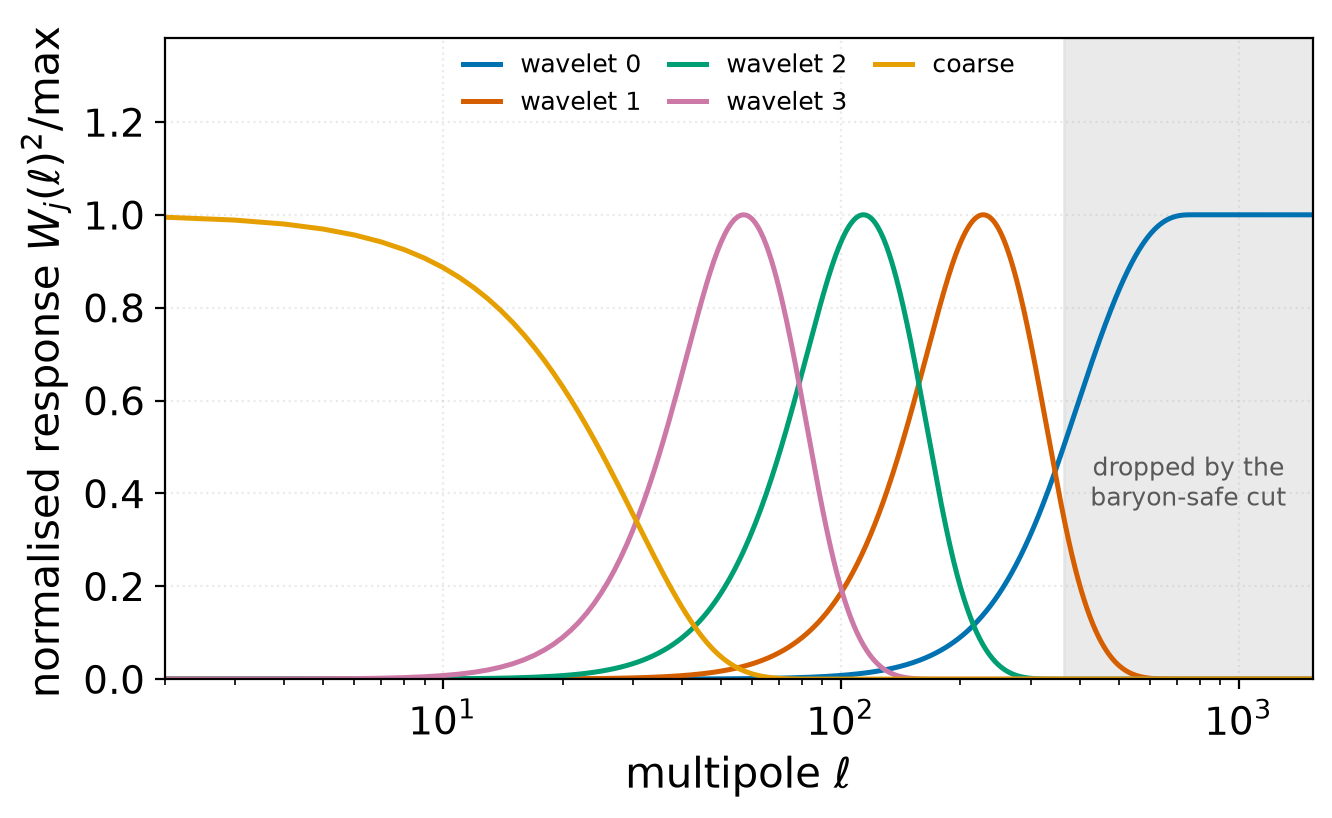
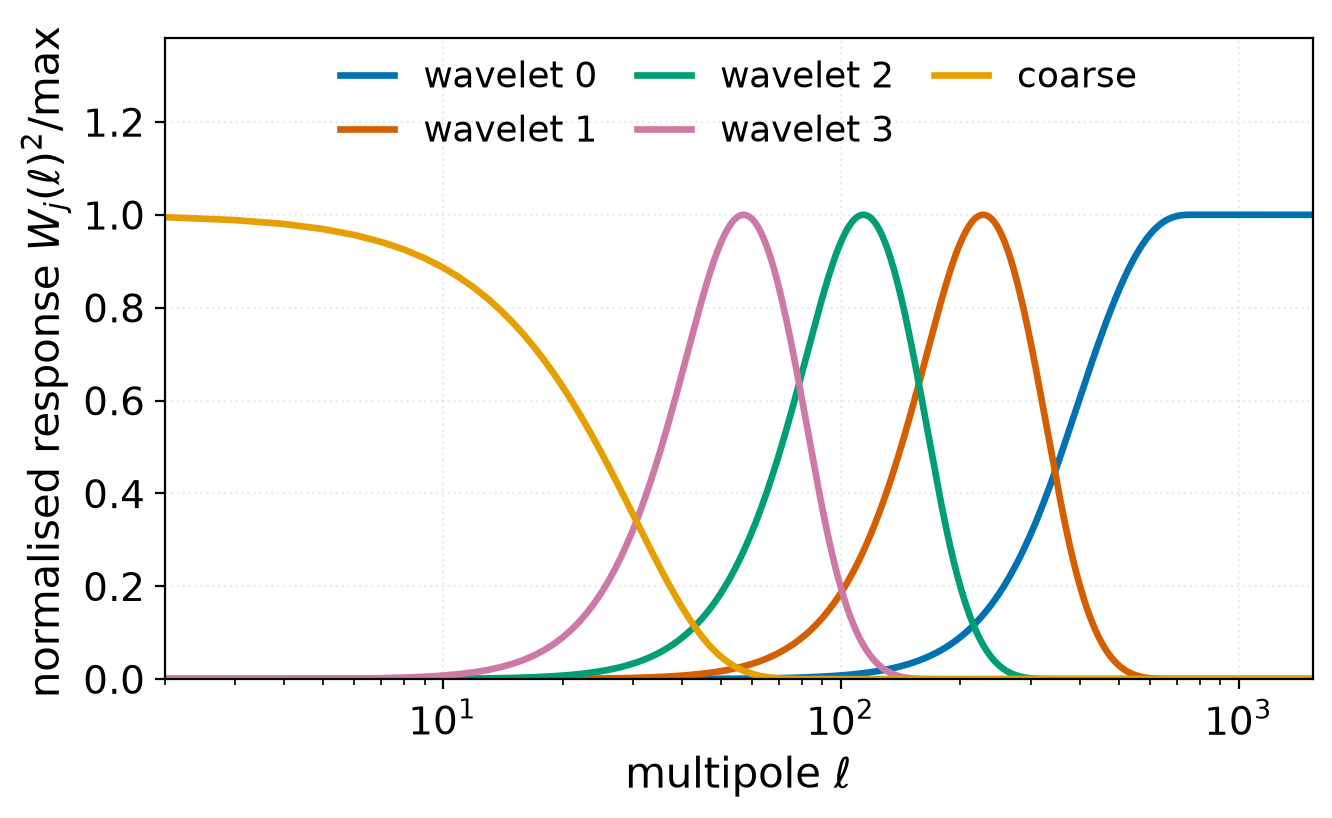
starlet_scale_ell: drop the baryon-safe-cut band, scale all type with the canvas
Removes the grey axvspan over wav0's range and its "dropped by the baryon-safe
cut" annotation. This figure reports the MEASURED scale-to-multipole mapping;
which scales an analysis then discards is an assertion about the cut, made in
the text and in the scale-cut figures. Carrying it here also pinned the figure
to one particular cut (scales234), so it would have gone stale the moment that
changed.

Also keys every text element to --width rather than only the legend and the
(now removed) annotation: the axis labels and ticks were inherited fixed from
paper_v1, so narrowing the canvas kept full-size axis type and overflowed the
axes -- which is what the docstring records as having made the narrow variant
unusable. Sizes are keyed so W=7.0 reproduces paper_v1's own values exactly
(15/14/13), leaving the default render unchanged apart from the removal, while
--width alone is now enough to retarget the figure.

Measurement untouched: values.csv is byte-identical.

Claude-Session: https://claude.ai/code/session_01SXAYVGCxtZzGWLz7XRq3UF

diff --git a/scripts/diagnostics/starlet_scale_ell.py b/scripts/diagnostics/starlet_scale_ell.py
@@ -143,9 +143,15 @@ def make_figure(W2, tbl, a):
     plt.style.use(os.path.join(REPO, "styles", "paper_v1.mplstyle"))
     fig, ax = plt.subplots(figsize=(a.width, a.width * a.aspect))
 
-    scale = min(1.0, a.width / 11.0)          # 1.0 at double column, ~0.64 at one column
-    leg_fs = max(9.0, 13.0 * scale)
-    ann_fs = max(9.0, 12.0 * scale)
+    # TYPE FOLLOWS THE CANVAS WIDTH, keyed so that the default reproduces paper_v1's own
+    # sizes exactly (labels 15, ticks 14, legend 13 at W=7.0). Previously only the legend and
+    # the annotation scaled while the axis labels and ticks were inherited fixed, so a
+    # narrowed render kept full-size axis type and overflowed. Now every text element moves
+    # together and --width alone is enough to retarget the figure.
+    scale = a.width / 7.0                     # 1.0 at the repo's one-column canvas
+    lab_fs = 15.0 * scale
+    tick_fs = 14.0 * scale
+    leg_fs = 13.0 * scale
     ncol = a.legend_ncol or (5 if a.width >= 11.0 else 3)
     rows = int(np.ceil(5 / ncol))
     # Headroom for however many legend rows there are, so it never sits on a curve.
@@ -155,15 +161,16 @@ def make_figure(W2, tbl, a):
         ax.semilogx(ell_axis()[1:], W2[j][1:], color=COLORS[j], lw=2.4 * max(0.75, scale),
                     label=LABELS[j])
 
-    w0 = next(r for r in tbl if r["type"] == "wav0")
-    ax.axvspan(w0["ell_half_lo"], LMAX, color="0.85", alpha=0.55, zorder=0)
-    ax.text(np.sqrt(w0["ell_half_lo"] * LMAX), 0.42,
-            "dropped by the\nbaryon-safe cut", ha="center", va="center",
-            fontsize=ann_fs, color="0.35")
+    # The shaded band over wav0's range and its "dropped by the baryon-safe cut" annotation
+    # were removed: this figure's job is to report the measured scale-to-multipole mapping,
+    # and which scales a given analysis discards is an assertion about the cut, made in the
+    # text and in the scale-cut figures. Carrying it here also dated the figure to one
+    # particular cut (scales234). The measurement itself is unchanged.
 
     ax.set_xlim(2, LMAX)
-    ax.set_xlabel(r"multipole $\ell$")
-    ax.set_ylabel(r"normalised response $W_j(\ell)^2/\max$")
+    ax.set_xlabel(r"multipole $\ell$", fontsize=lab_fs)
+    ax.set_ylabel(r"normalised response $W_j(\ell)^2/\max$", fontsize=lab_fs)
+    ax.tick_params(labelsize=tick_fs)
     ax.legend(frameon=False, ncol=ncol, loc="upper center", fontsize=leg_fs,
               columnspacing=1.1, handlelength=1.5, borderaxespad=0.2)
     ax.grid(alpha=0.25, ls=":")
@@ -171,7 +178,8 @@ def make_figure(W2, tbl, a):
         secax = ax.secondary_xaxis("top",
                                    functions=(lambda l: 10800.0 / np.clip(l, 1e-6, None),
                                               lambda t: 10800.0 / np.clip(t, 1e-6, None)))
-        secax.set_xlabel(r"angular scale $10800/\ell$ [arcmin]")
+        secax.set_xlabel(r"angular scale $10800/\ell$ [arcmin]", fontsize=lab_fs)
+        secax.tick_params(labelsize=tick_fs)
     fig.tight_layout()
     stem = os.path.join(OUT, "starlet_scale_ell" + (f"_{a.tag}" if a.tag else ""))
     for ext in ("png", "pdf"):

diff --git a/paper/figures/starlet_scale_ell/README.md b/paper/figures/starlet_scale_ell/README.md
@@ -1,11 +1,9 @@
 # Starlet scale to multipole response
 
-Squared harmonic response W_j(l)^2 of each starlet scale, peak-normalised. Measured deterministically from single-pixel (white) inputs, so it carries no Monte Carlo error; cross-validated against 40 white-noise realisations (1.8% median agreement) and isotropic to 0.03%. Appendix material: it fixes the multipole band of each wavelet scale, which licenses the baryon-safe cut and the power-spectrum floor l >= 37. Method and interpretation: docs/starlet_scale_ell.md.
-
 - **source**: `outputs/diagnostics/starlet_scale_ell/starlet_scale_ell`
 - **generator commit**: `cd2a48f3a585e985dd26573fa65668f219ba4b9e`
 - **generated**: 2026-08-05T08:48:35Z
-- **published**: 2026-08-05T08:49:21+00:00 at repo `cd2a48f3`
+- **published**: 2026-08-09T13:28:35+00:00 at repo `89409001`
 - **rows in values.csv**: 5
 
 ## Scales included
